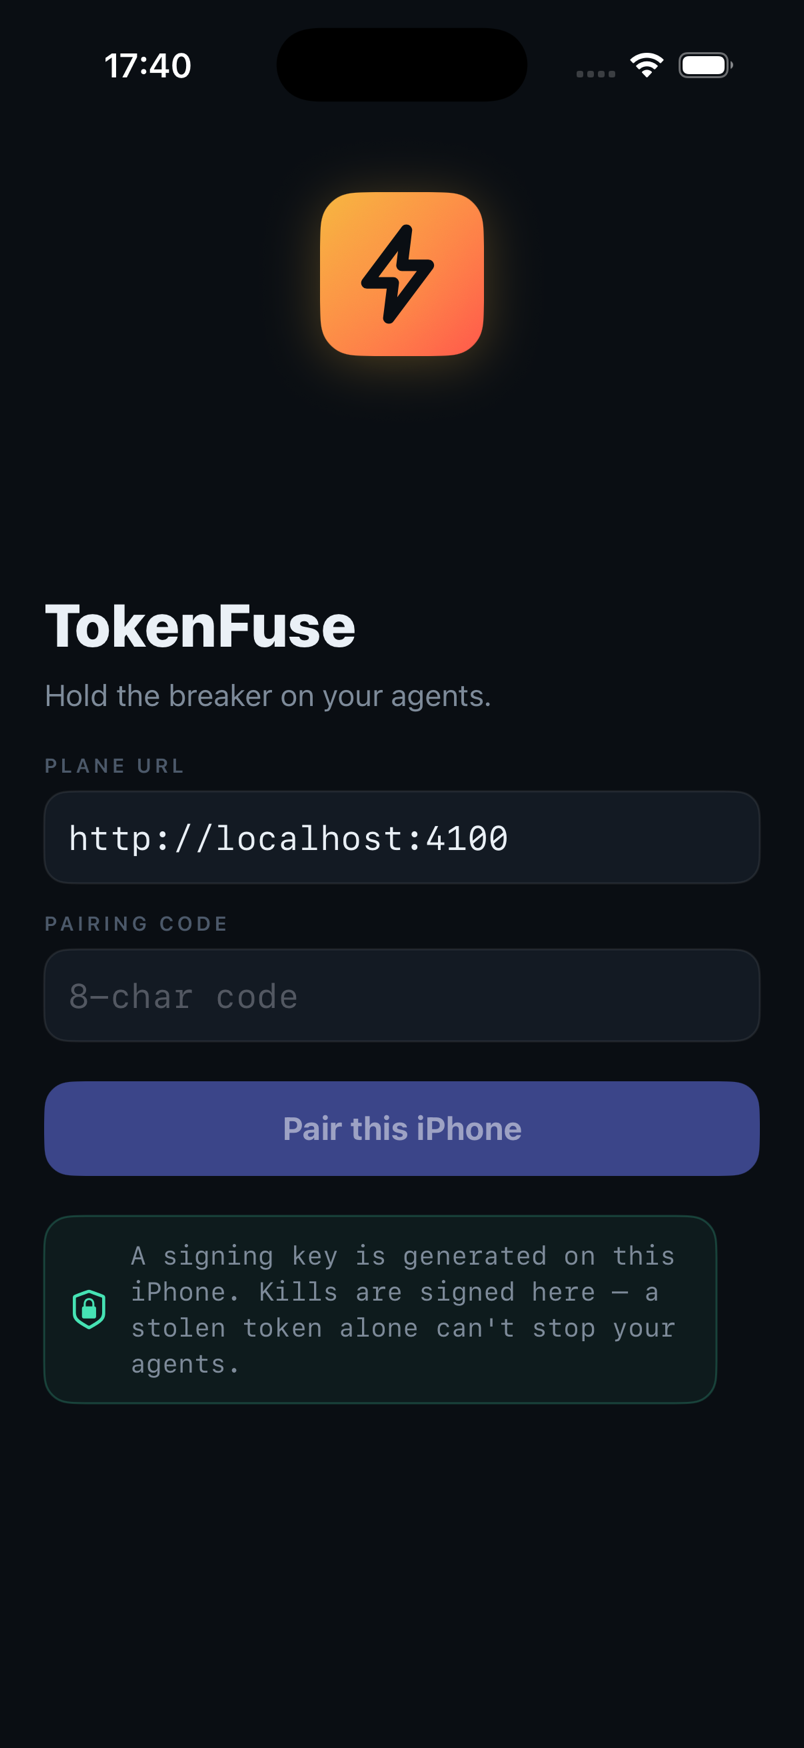
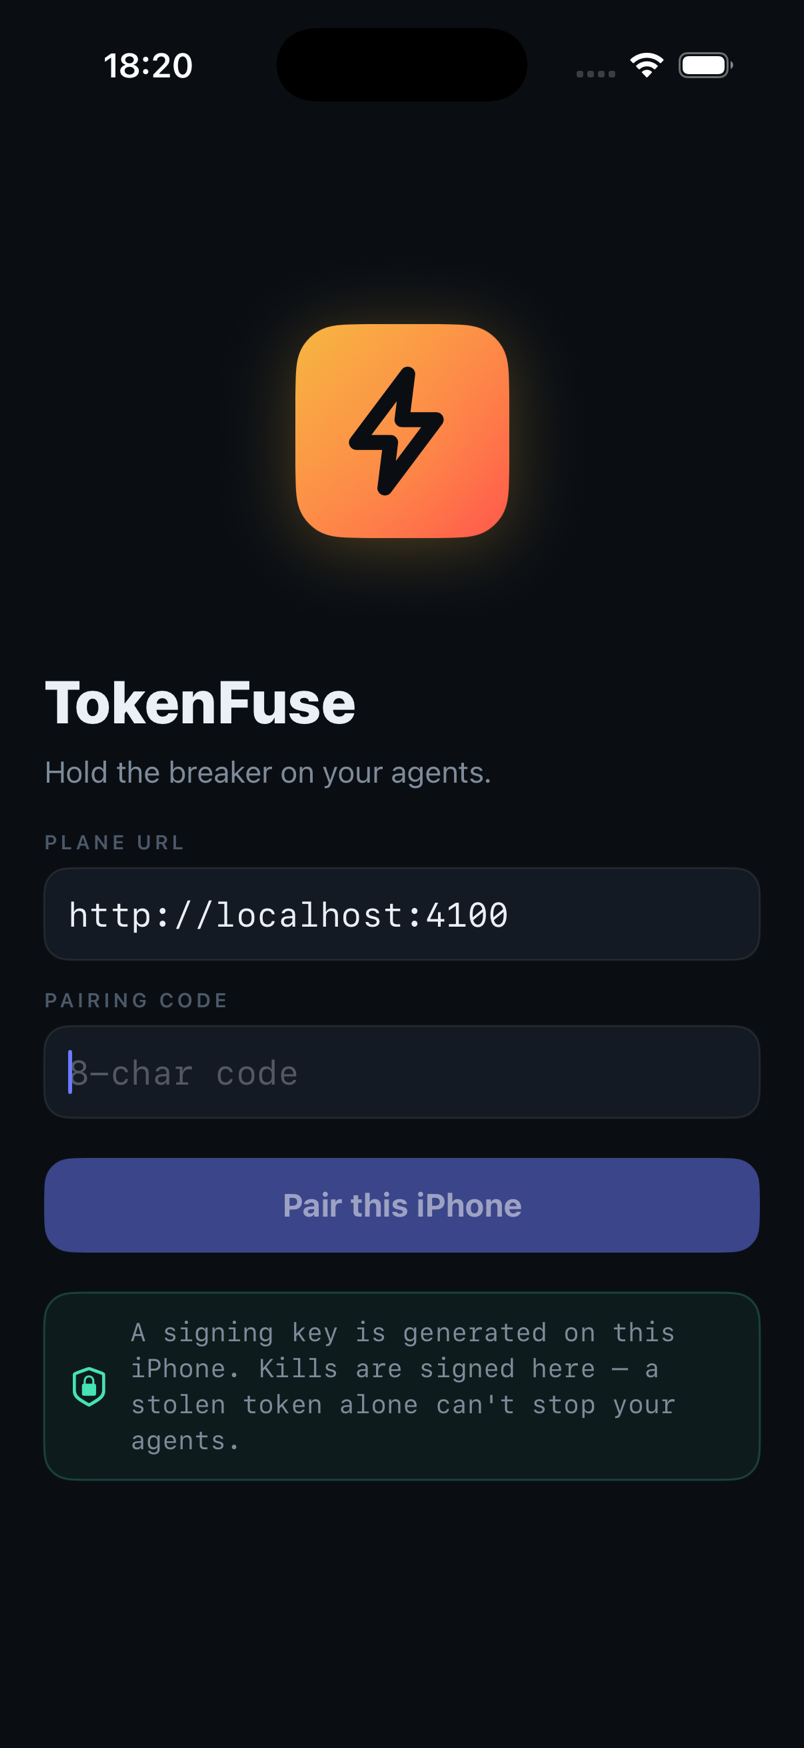
ios(pair): emblem size/placement + graceful keyboard handling
- Emblem enlarged (82 → 107) and set above the wordmark with a comfortable
  gap; the group is vertically centred.
- The security note ("seal") now stretches full-width, symmetric with the
  fields and the button.
- Keyboard: when it opens, the view rises just enough to keep the primary
  "Pair this iPhone" button clear of it — the top spacer collapses to a small
  fixed inset and the emblem→wordmark gap tightens, so the emblem stays fully
  visible below the Dynamic Island (no keyboard toolbar, no ignoresSafeArea).
- Return key pairs from the keyboard (URL → next field, code → Go).

Pair screenshot re-captured (README gallery + showcase).

Changed region(s): [[0.0311, 0.0927, 0.9639, 0.8341], [0.1244, 0.0309, 0.2488, 0.0618], [0.4975, 0.3707, 0.5908, 0.4016]]

diff --git a/mobile/ios/Sources/PairView.swift b/mobile/ios/Sources/PairView.swift
@@ -11,19 +11,32 @@ struct PairView: View {
     @State private var code = ""
     @State private var busy = false
     @State private var error: String?
+    @FocusState private var focus: Field?
+    @State private var keyboardUp = false
+
+    private enum Field { case url, code }
 
     var body: some View {
         ZStack {
             Palette.ink.ignoresSafeArea()
             VStack(spacing: 0) {
-                BrandMark(size: 82)
-                    .padding(.top, 12)
-                Spacer()
+                // Keyboard down: a flexible spacer centres the whole group.
+                // Keyboard up: a small fixed top anchors the emblem near the top
+                // (with breathing room below the Dynamic Island) and the gap
+                // tightens, so the form — including the Pair button — rises just
+                // clear of the keyboard while the emblem stays fully visible.
+                if keyboardUp {
+                    Spacer().frame(height: 20)
+                } else {
+                    Spacer()
+                }
+                BrandMark(size: 107)
+                    .padding(.bottom, keyboardUp ? 20 : 64)
                 VStack(alignment: .leading, spacing: 20) {
                     brand
                     VStack(alignment: .leading, spacing: 14) {
-                        field(label: "PLANE URL", text: $url, placeholder: "https://…")
-                        field(label: "PAIRING CODE", text: $code, placeholder: "8-char code")
+                        field(.url, label: "PLANE URL", text: $url, placeholder: "https://…")
+                        field(.code, label: "PAIRING CODE", text: $code, placeholder: "8-char code")
                     }
                     if let error {
                         Text(error).font(.mono).foregroundStyle(Palette.ember)
@@ -38,8 +51,8 @@ struct PairView: View {
                         .background(Palette.iris, in: RoundedRectangle(cornerRadius: 14))
                         .foregroundStyle(.white)
                     }
-                    .disabled(busy || url.isEmpty || code.isEmpty)
-                    .opacity(busy || url.isEmpty || code.isEmpty ? 0.5 : 1)
+                    .disabled(!canPair)
+                    .opacity(canPair ? 1 : 0.5)
 
                     seal
                 }
@@ -48,6 +61,12 @@ struct PairView: View {
             .padding(22)
         }
         .foregroundStyle(Palette.fg)
+        .onReceive(NotificationCenter.default.publisher(for: UIResponder.keyboardWillShowNotification)) { _ in
+            withAnimation(.easeOut(duration: 0.25)) { keyboardUp = true }
+        }
+        .onReceive(NotificationCenter.default.publisher(for: UIResponder.keyboardWillHideNotification)) { _ in
+            withAnimation(.easeOut(duration: 0.25)) { keyboardUp = false }
+        }
         .task {
             // Screenshot / UI-check hook: pair automatically from launch args.
             if !busy, let u = LaunchArgs.value("-autoPairURL"), let c = LaunchArgs.value("-autoPairCode") {
@@ -55,6 +74,8 @@ struct PairView: View {
                 code = c
                 pair()
             }
+            // Screenshot hook: raise the keyboard to check it doesn't hide the emblem.
+            if LaunchArgs.has("-focusCode") { focus = .code }
         }
     }
 
@@ -72,17 +93,22 @@ struct PairView: View {
                 .font(.system(size: 20)).foregroundStyle(Palette.mint)
             Text("A signing key is generated on this iPhone. Kills are signed here — a stolen token alone can't stop your agents.")
                 .font(.mono).foregroundStyle(Palette.dim)
+                .frame(maxWidth: .infinity, alignment: .leading)
         }
         .padding(12)
+        .frame(maxWidth: .infinity, alignment: .leading)
         .background(Palette.mint.opacity(0.06), in: RoundedRectangle(cornerRadius: 14))
         .overlay(RoundedRectangle(cornerRadius: 14).stroke(Palette.mint.opacity(0.22)))
     }
 
-    private func field(label: String, text: Binding<String>, placeholder: String) -> some View {
+    private func field(_ which: Field, label: String, text: Binding<String>, placeholder: String) -> some View {
         VStack(alignment: .leading, spacing: 7) {
             Text(label).font(.system(size: 10, weight: .semibold)).tracking(1.6)
                 .foregroundStyle(Palette.faint)
             TextField(placeholder, text: text)
+                .focused($focus, equals: which)
+                .submitLabel(which == .code ? .go : .next)
+                .onSubmit { submit(which) }
                 .textInputAutocapitalization(.never)
                 .autocorrectionDisabled()
                 .font(.system(.body, design: .monospaced))
@@ -92,7 +118,20 @@ struct PairView: View {
         }
     }
 
+    private var canPair: Bool { !busy && !url.isEmpty && !code.isEmpty }
+
+    /// Return-key behaviour: the URL field advances to the code; the code field
+    /// pairs. Lets you pair straight from the keyboard, without reaching the
+    /// button that the keyboard covers.
+    private func submit(_ which: Field) {
+        switch which {
+        case .url: focus = .code
+        case .code: if canPair { pair() }
+        }
+    }
+
     private func pair() {
+        focus = nil
         error = nil
         busy = true
         let planeURL = url